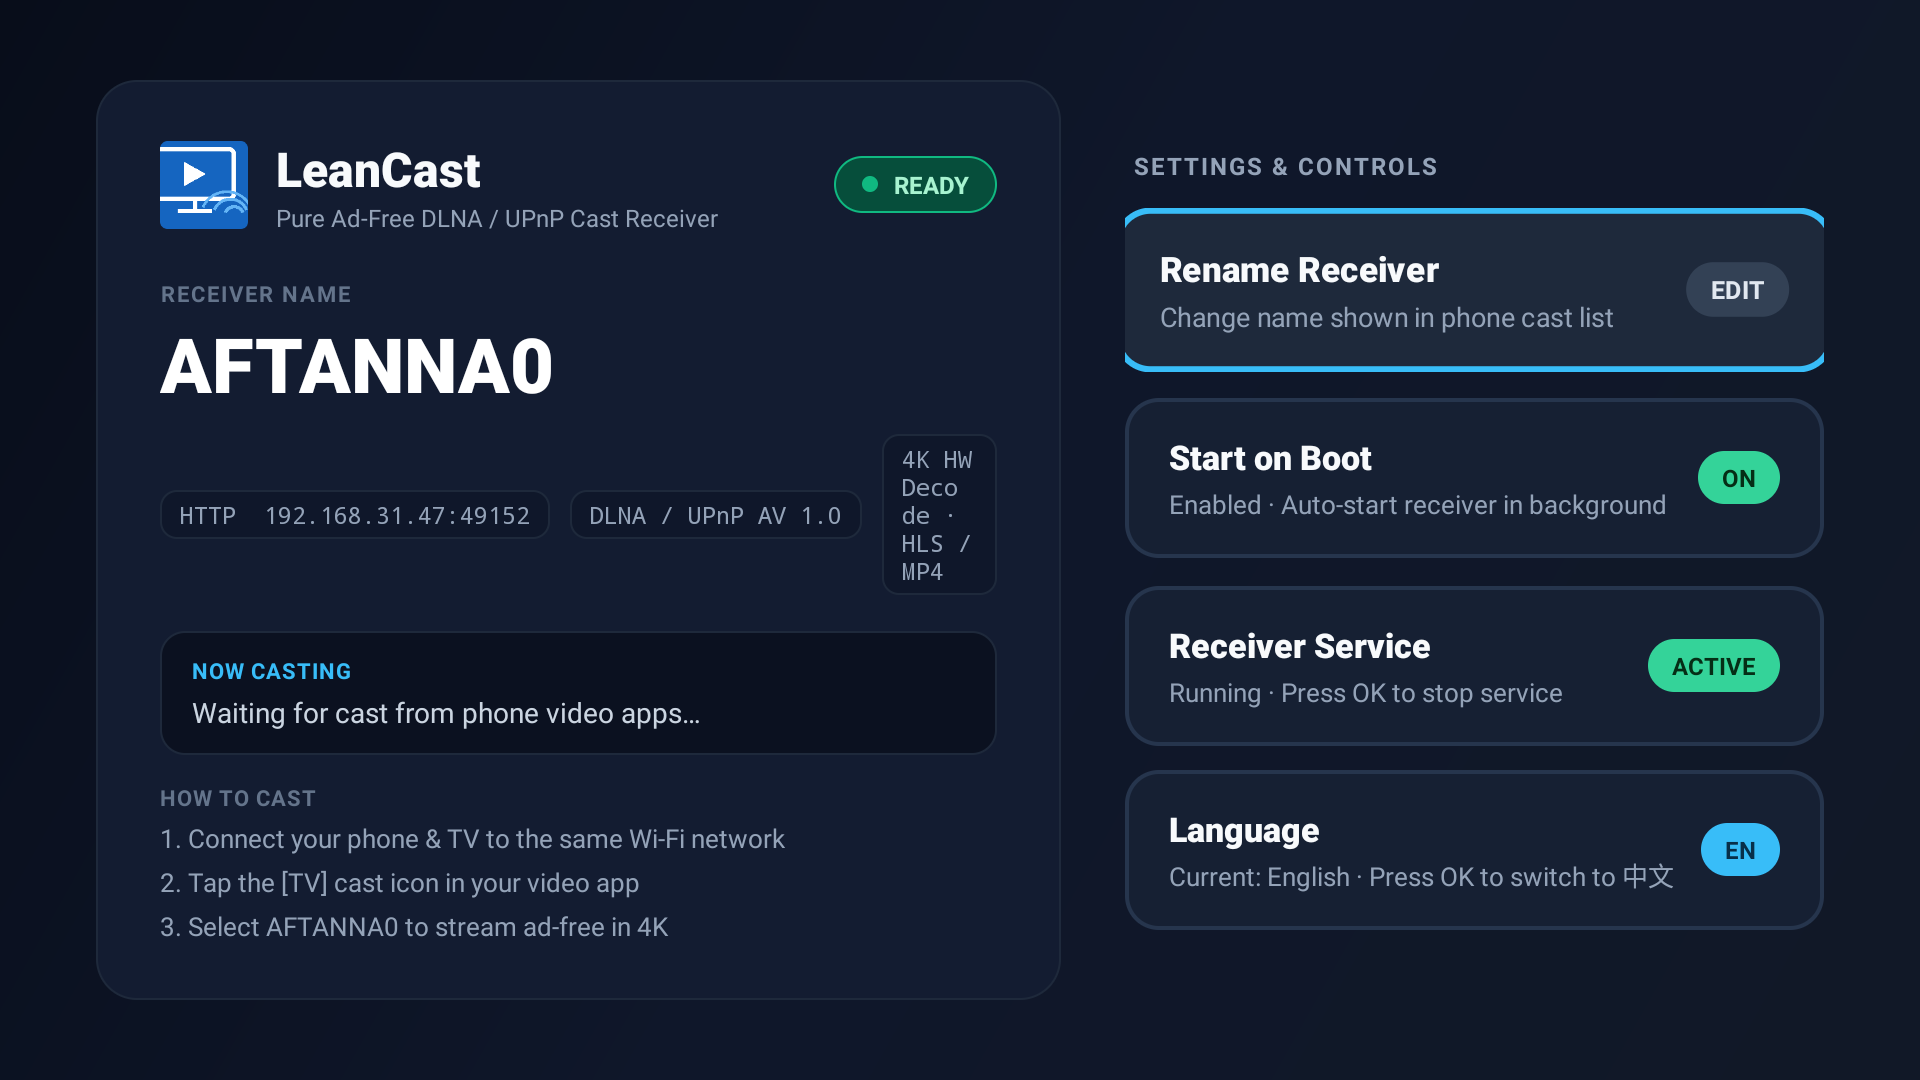
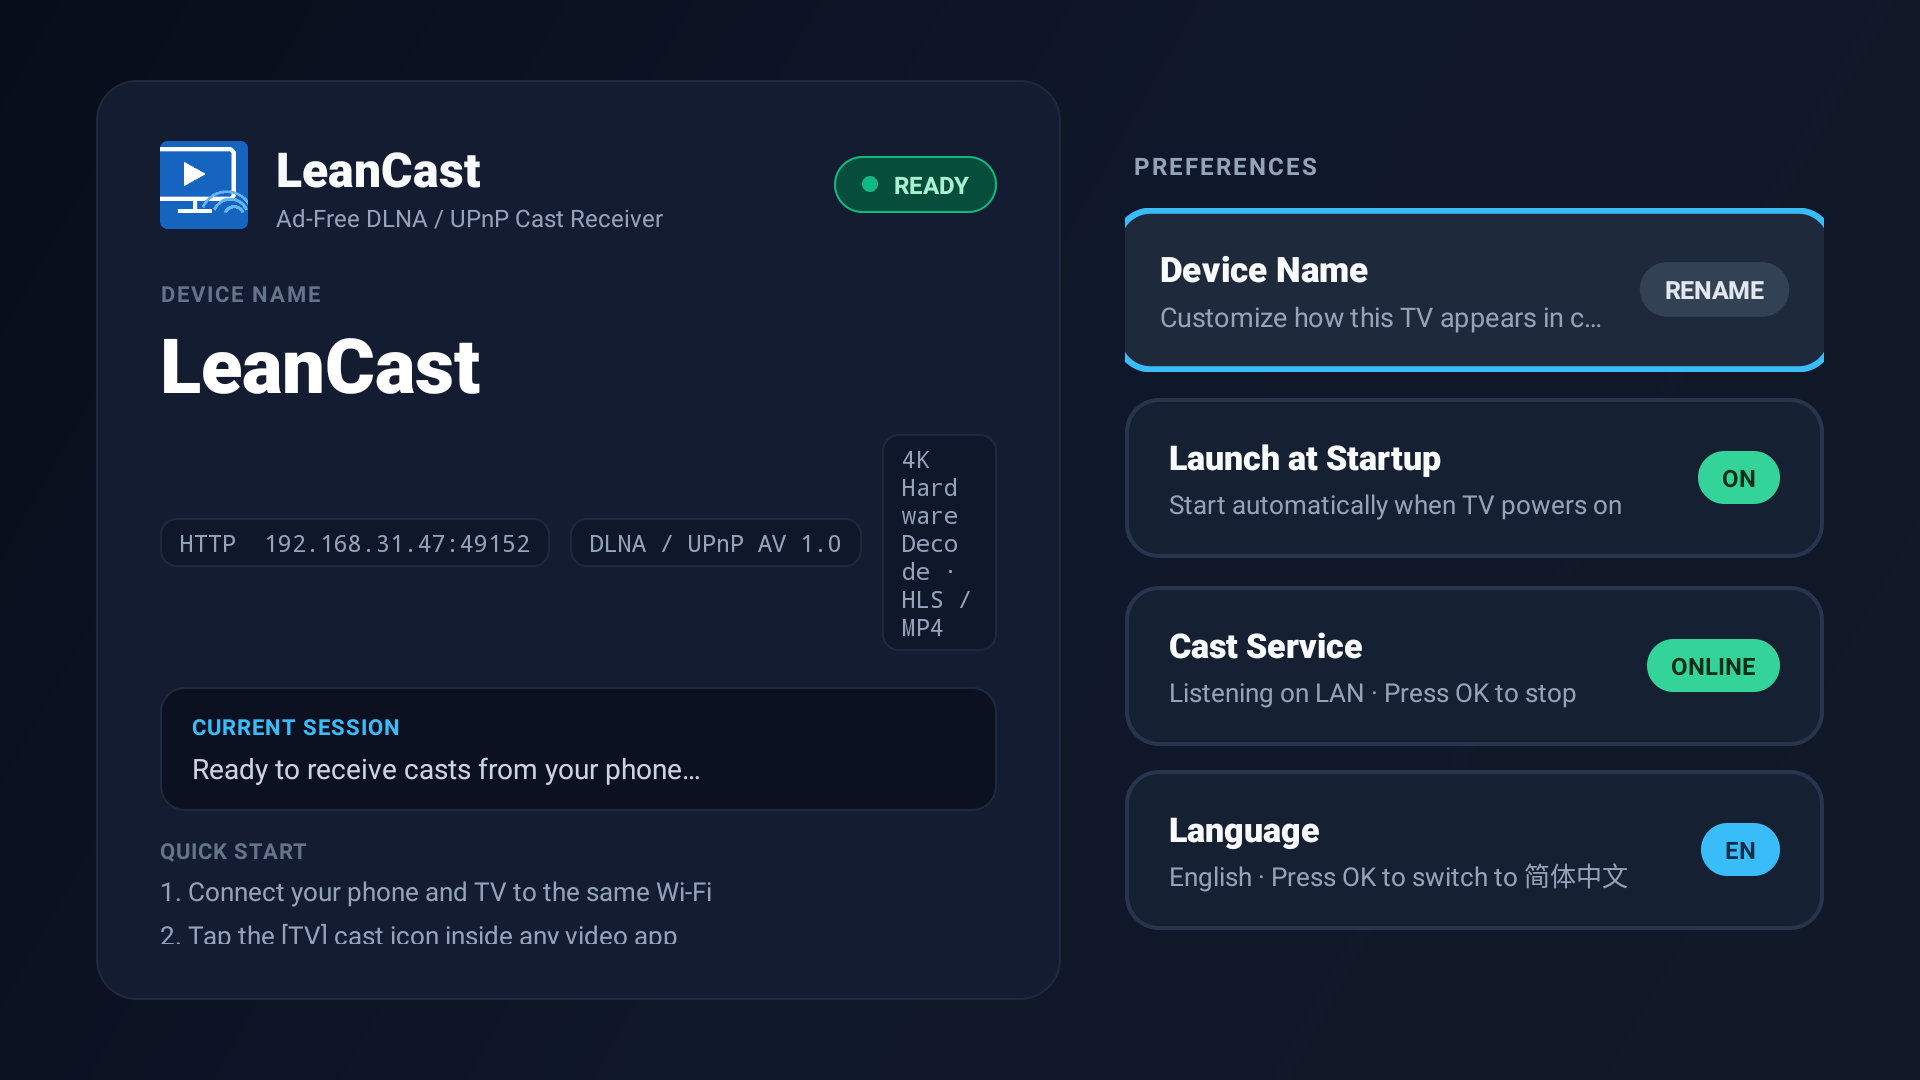
feat(i18n): default receiver name to LeanCast and refine zh/en copy
- Settings.friendlyName() now defaults to @string/app_name ('LeanCast') instead
  of Build.MODEL ('AFTANNA0')
- Localize all action card pills (修改/已开启/已关闭/运行中/已停止 vs
  RENAME/ON/OFF/ONLINE/STOPPED) and polish Chinese & English UI phrasing
- Update openspec receiver-app spec delta and screenshots

diff --git a/app/src/main/java/io/leancast/app/MainActivity.kt b/app/src/main/java/io/leancast/app/MainActivity.kt
@@ -287,7 +287,7 @@ class MainActivity : AppCompatActivity() {
         val resumeRefs = makeActionCard(
             title = getString(R.string.action_resume_player),
             subtitle = getString(R.string.action_resume_player_desc),
-            pillText = "LIVE",
+            pillText = getString(R.string.pill_live),
             accentPill = true,
             onClick = {
                 startActivity(Intent(this, PlayerActivity::class.java))
@@ -303,7 +303,7 @@ class MainActivity : AppCompatActivity() {
         val renameRefs = makeActionCard(
             title = getString(R.string.setting_rename),
             subtitle = getString(R.string.setting_rename_desc),
-            pillText = "EDIT",
+            pillText = getString(R.string.pill_edit),
             accentPill = false,
             onClick = { showRenameDialog() },
         )
@@ -514,7 +514,7 @@ class MainActivity : AppCompatActivity() {
         // Autostart card state
         val auto = settings.autostart
         autostartStatus.text = if (auto) getString(R.string.setting_autostart_on) else getString(R.string.setting_autostart_off)
-        autostartPill.text = if (auto) "ON" else "OFF"
+        autostartPill.text = if (auto) getString(R.string.pill_on) else getString(R.string.pill_off)
         autostartPill.setTextColor(if (auto) Color.parseColor("#052E16") else Color.parseColor("#94A3B8"))
         autostartPill.background = roundedRect(
             fillColor = if (auto) Color.parseColor("#34D399") else Color.parseColor("#1E293B"),
@@ -526,7 +526,7 @@ class MainActivity : AppCompatActivity() {
         // Service card state
         val running = session != null
         serviceStatus.text = if (running) getString(R.string.action_service_running) else getString(R.string.action_service_stopped)
-        servicePill.text = if (running) "ACTIVE" else "OFF"
+        servicePill.text = if (running) getString(R.string.pill_active) else getString(R.string.pill_stopped)
         servicePill.setTextColor(if (running) Color.parseColor("#052E16") else Color.parseColor("#FCA5A5"))
         servicePill.background = roundedRect(
             fillColor = if (running) Color.parseColor("#34D399") else Color.parseColor("#7F1D1D"),

diff --git a/app/src/main/java/io/leancast/app/Settings.kt b/app/src/main/java/io/leancast/app/Settings.kt
@@ -2,14 +2,13 @@ package io.leancast.app
 
 import android.content.Context
 import android.content.res.Configuration
-import android.os.Build
 import java.util.Locale
 import java.util.UUID
 
 /** Persisted receiver identity and toggles. */
-class Settings(context: Context) {
+class Settings(private val appContext: Context) {
 
-    private val prefs = context.getSharedPreferences("receiver", Context.MODE_PRIVATE)
+    private val prefs = appContext.getSharedPreferences("receiver", Context.MODE_PRIVATE)
 
     /** UDN value with `uuid:` prefix, generated once and stable across restarts. */
     fun uuid(): String {
@@ -21,12 +20,15 @@ class Settings(context: Context) {
         return value
     }
 
-    /** Friendly name shown in cast lists; defaults to the device model, never a product literal. */
-    fun friendlyName(): String =
-        prefs.getString(KEY_NAME, null) ?: Build.MODEL
+    /** Friendly name shown in cast lists; defaults to `@string/app_name` ("LeanCast"). */
+    fun friendlyName(): String {
+        val defaultName = appContext.getString(R.string.app_name)
+        return prefs.getString(KEY_NAME, null)?.takeIf { it.isNotBlank() } ?: defaultName
+    }
 
     fun setFriendlyName(name: String) {
-        prefs.edit().putString(KEY_NAME, name.trim().ifEmpty { Build.MODEL }).apply()
+        val defaultName = appContext.getString(R.string.app_name)
+        prefs.edit().putString(KEY_NAME, name.trim().ifEmpty { defaultName }).apply()
     }
 
     var autostart: Boolean

diff --git a/openspec/changes/harden-cast-ux/specs/receiver-app/spec.md b/openspec/changes/harden-cast-ux/specs/receiver-app/spec.md
@@ -23,4 +23,18 @@ The app SHALL support switching the UI language between Simplified Chinese (`zh`
 - **WHEN** the user activates the language switch card on the dashboard
 - **THEN** the persisted language toggles between `zh` and `en` and all UI strings render in the selected language only
 
+## MODIFIED Requirements
+
+### Requirement: Configurable friendly name
+The app SHALL persist a receiver friendly name that defaults to the application name (`@string/app_name`, i.e. `LeanCast`). The name is injected into the UPnP device description `friendlyName` and the launcher UI, and can be customized by the user at any time.
+
+#### Scenario: Default name is LeanCast
+- **WHEN** the app runs for the first time with no custom name saved
+- **THEN** the UPnP description and UI advertise `friendlyName` as `LeanCast`
+
+#### Scenario: Rename takes effect
+- **WHEN** the user changes the friendly name in settings and confirms
+- **THEN** the receiver service restarts and subsequent device description responses carry the new name
+
+
 
